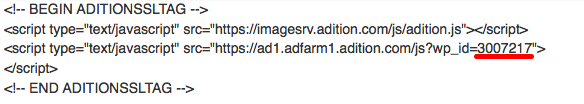
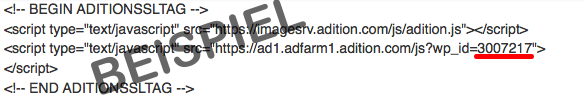
bannerschaltung nun auch mit id anstelle fehleranfälligen html

Changed region(s): [[0.1541, 0.0, 0.524, 0.9231]]

diff --git a/functions/posttype_ad.php b/functions/posttype_ad.php
@@ -137,6 +137,7 @@ function fau_ad_metabox_content( $object, $box ) {
 	    // oder nach der Rolle? vgl. http://docs.appthemes.com/tutorials/wordpress-check-user-role-function/ 
 	return;
 
+    $aditionid = get_post_meta( $object->ID, 'fauval_ad_aditionid', true );
     
     $targeturl = get_post_meta( $object->ID, 'fauval_ad_url', true );
     $code = get_post_meta( $object->ID, 'fauval_ad_code', true );
@@ -156,15 +157,23 @@ function fau_ad_metabox_content( $object, $box ) {
     if (empty($targeturl) && isset($link)) {
 	$targeturl = $link;
     }
-   			
+   $infotext = 	__('Geben Sie hier die ID-Nummer ein, die für die jeweilige Werbeeinblendung genutzt werden soll. Diese ID erhalten Sie von Adition, bzw. finden Sie in dem HTML-Code, den Sie zum Einbau in ihrer Website von Adition erhalten haben.','fau');
+   $infotext .= '<br>'.__('Beispiel eines Codes von Adition: ','fau').'<img style="border: 2px dotted #ddd; display: block; margin: 10px;" src="'. get_fau_template_uri().'/img/posttype_ad_example.png" alt="Beispiel-Code von Universi"><br>';
+   $infotext .= __('Nehmen Sie hier die Zahl, die bei Ihrem Code an der im Beispiel unterstrichenen Stelle hinter der Zeichenfolge <code>wp_id=</code> auftaucht.','fau'); 
    
+    fau_form_number('fauval_ad_aditionid',$aditionid, __('Werbe-ID', 'fau'),$infotext);
+    
+    echo __('Hinweis: Ist die Id mit einem Wert über 0 belegt, wird der Code in der manuellen HTML-Einbindung und der Verlinkung ignoriert.','fau');
+    
     fau_form_textarea('fauval_ad_code', $code, __('HTML-Code zur Einbindung','fau'),80,6, __('Achtung: Dieser HTML-Code wird nicht auf syntaktische Korrektheit geprüft. Fehler, wie nicht geschlossene HTML-Anweisungen, können die gesamte Website beschädigen und dafür sorgen, daß eine kleine süße Katze irgendwo auf der Welt stirbt.','fau'));
+
+    echo __('Sollte weder eine Adition-ID eingegeben worden sein, noch HTML-Code, kann eine Bannerverlinkung durch EIngabe der URL und des Beitragsbildes festgelegt werden.','fau');
+    
+    fau_form_url('fauval_ad_url', $targeturl, __('Webadresse','fau'), __('Sollte kein HTML-Code eingegeben werden sollen, kann alternativ direkt eine Zieladresse und ein Bild aus der Mediathek gewählt werden. Hiermit kann die URL des Zieles eingegeben werden. Als Bild wird das gewählte Beitragsbild verwendet.','fau'), $placeholder='http://');      
+    fau_form_select('fauval_ad_position', array( '1' => __('Sidebar','fau'), '2' => __('Unterhalb des Inhaltsbereich','fau')), $position, __('Position','fau'), __('Angabe an welchen Positionen der Seite diese Werbung angezeigt werden kann.', 'fau'),1, __('Sidebar und unterhalb des Inhaltsbereich','fau'));
+    
     fau_form_textarea('fauval_ad_notes', $notiz, __('Redaktionelle Notizen','fau'),80,3,__('Hier können redaktionelle Notizen hinterlassen werden. Diese werden nur hier angezeigt.','fau'));
 
-    fau_form_url('fauval_ad_url', $targeturl, __('Webadresse','fau'), __('Sollte kein HTML-Code eingegeben werden sollen, kann alternativ direkt eine Zieladresse und ein Bild aus der Mediathek gewählt werden. Hiermit kann die URL des Zieles eingegeben werden. Als Bild wird das gewählte Beitragsbild verwendet.','fau'), $placeholder='http://');   
-
-    
-    fau_form_select('fauval_ad_position', array( '1' => __('Sidebar','fau'), '2' => __('Unterhalb des Inhaltsbereich','fau')), $position, __('Position','fau'), __('Angabe an welchen Positionen der Seite diese Werbung angezeigt werden kann.', 'fau'),1, __('Sidebar und unterhalb des Inhaltsbereich','fau'));
     
     
     // function fau_form_select($name= '', $liste = array(), $prevalue, $labeltext = '',  $howtotext = '', $showempty=1, $emptytext = '' ) {
@@ -202,7 +211,7 @@ function fau_ad_metabox_content_save( $post_id ) {
 	
 	
     /* Old values */	
-    
+    $aditionid = get_post_meta( $object->ID, 'fauval_ad_aditionid', true );
     $targeturl = get_post_meta( $post_id, 'fauval_ad_url', true );
     $code = get_post_meta( $post_id, 'fauval_ad_code', true );
     $notiz = get_post_meta($post_id, 'fauval_ad_notes', true );
@@ -217,7 +226,17 @@ function fau_ad_metabox_content_save( $post_id ) {
 	$targeturl = get_post_meta( $post_id, 'link', true );
     }
     
-    
+     $newval = intval($_POST['fauval_ad_aditionid']) ;
+	
+    if (!empty(trim($newval))) {
+	if (isset($aditionid)  && ($aditionid != $newval)) {
+	    update_post_meta( $post_id, 'fauval_ad_aditionid', $newval );
+	} else {
+	    add_post_meta( $post_id, 'fauval_ad_aditionid', $newval, true );
+	}
+    } elseif ($position) {
+	delete_post_meta( $post_id, 'fauval_ad_aditionid', $aditionid );	
+    } 
     
     $newval =  $_POST['fauval_ad_code'] ;
 	
@@ -335,28 +354,35 @@ function fau_get_ad($type, $withhr = true) {
 		}
 		$out .= '</h3>';	   
 		$out .= ' <div class="fau-werbung-content">';
-		$scriptcode = get_post_meta( $id, 'fauval_ad_code', true );
-		if (empty($scriptcode)) {
-		    $scriptcode = get_post_meta( $id, 'ad_script', true );
-		}
-
-		if(isset($scriptcode)) {
-
-		    $out .=  html_entity_decode($scriptcode);
-		} else  {
-		    $link =    get_post_meta( $id, 'fauval_ad_url', true ); 
-		    if (empty($link)) {
-			$link =    get_post_meta( $id, 'link', true ); 
+		$aditionid = get_post_meta( $id, 'fauval_ad_aditionid', true );
+		if ($aditionid >0) { 
+		    $prot = 'https';
+		    $out .= "<!-- BEGIN ADITIONSSLTAG -->";
+		    $out .= "<script type=\"text/javascript\" src=\"".$prot."://imagesrv.adition.com/js/adition.js\"></script>";
+		    $out .= "<script type=\"text/javascript\" src=\"".$prot."://ad1.adfarm1.adition.com/js?wp_id=".$aditionid."\"></script>";
+		    $out .= "<!-- END ADITIONSSLTAG -->";    
+		} else { 
+		    $scriptcode = get_post_meta( $id, 'fauval_ad_code', true );
+		    if (empty($scriptcode)) {
+			$scriptcode = get_post_meta( $id, 'ad_script', true );
 		    }
-		    if($link) {
-			$out .=  '<a href="'.get_field('link', $id).'">';
-		    }
-		    $out .=  get_the_post_thumbnail($id, 'full');
-		    if($link) {
-			$out .=  '</a>';
-		    }
+		    if(isset($scriptcode)) {
+			$out .=  html_entity_decode($scriptcode);
+		    } else  {
+			$link =    get_post_meta( $id, 'fauval_ad_url', true ); 
+			if (empty($link)) {
+			    $link =    get_post_meta( $id, 'link', true ); 
+			}
+			if($link) {
+			    $out .=  '<a href="'.get_field('link', $id).'">';
+			}
+			$out .=  get_the_post_thumbnail($id, 'full');
+			if($link) {
+			    $out .=  '</a>';
+			}
 
-		}
+		    }
+		 }
 		$out .= '</div>';
 
 	   }

diff --git a/functions/helper-functions.php b/functions/helper-functions.php
@@ -84,6 +84,41 @@ if ( ! function_exists( 'fau_form_text' ) ) :
 	}
     }
 endif;
+if ( ! function_exists( 'fau_form_number' ) ) :
+    function fau_form_number($name= '', $prevalue = '', $labeltext = '', $howtotext = '', $min = 0, $max = 0, $step=1) {
+	$name = fau_san( $name );
+	$labeltext = fau_san( $labeltext );
+	if (isset($name) &&  isset($labeltext))  {
+	    echo "<p>\n";
+	    echo '	<label for="'.$name.'">';
+	    echo $labeltext;
+	    echo "</label><br />\n";
+	     
+	    echo '	<input type="number" ';
+	   
+	    echo 'name="'.$name.'" id="'.$name.'" value="'.$prevalue.'"';
+	    if ($min>0) {
+		echo ' min="'.$min.'"';
+	    }
+	    if ($max>0) {
+		echo ' max="'.$max.'"';
+	    }
+	     if ($step>1) {
+		echo ' step="'.$step.'"';
+	    }
+	  
+	    echo " />\n";
+	    echo "</p>\n";
+	    if (strlen(trim($howtotext))) {
+		echo '<p class="howto">';
+		echo $howtotext;
+		echo "</p>\n";
+	    }
+	} else {
+	    echo _('Ungültiger Aufruf von fau_form_number() - Name oder Label fehlt.', 'fau');
+	}
+    }
+endif;
 
 if ( ! function_exists( 'fau_form_url' ) ) :
     function fau_form_url($name= '', $prevalue = '', $labeltext = '', $howtotext = '', $placeholder='http://', $size = 0) {
